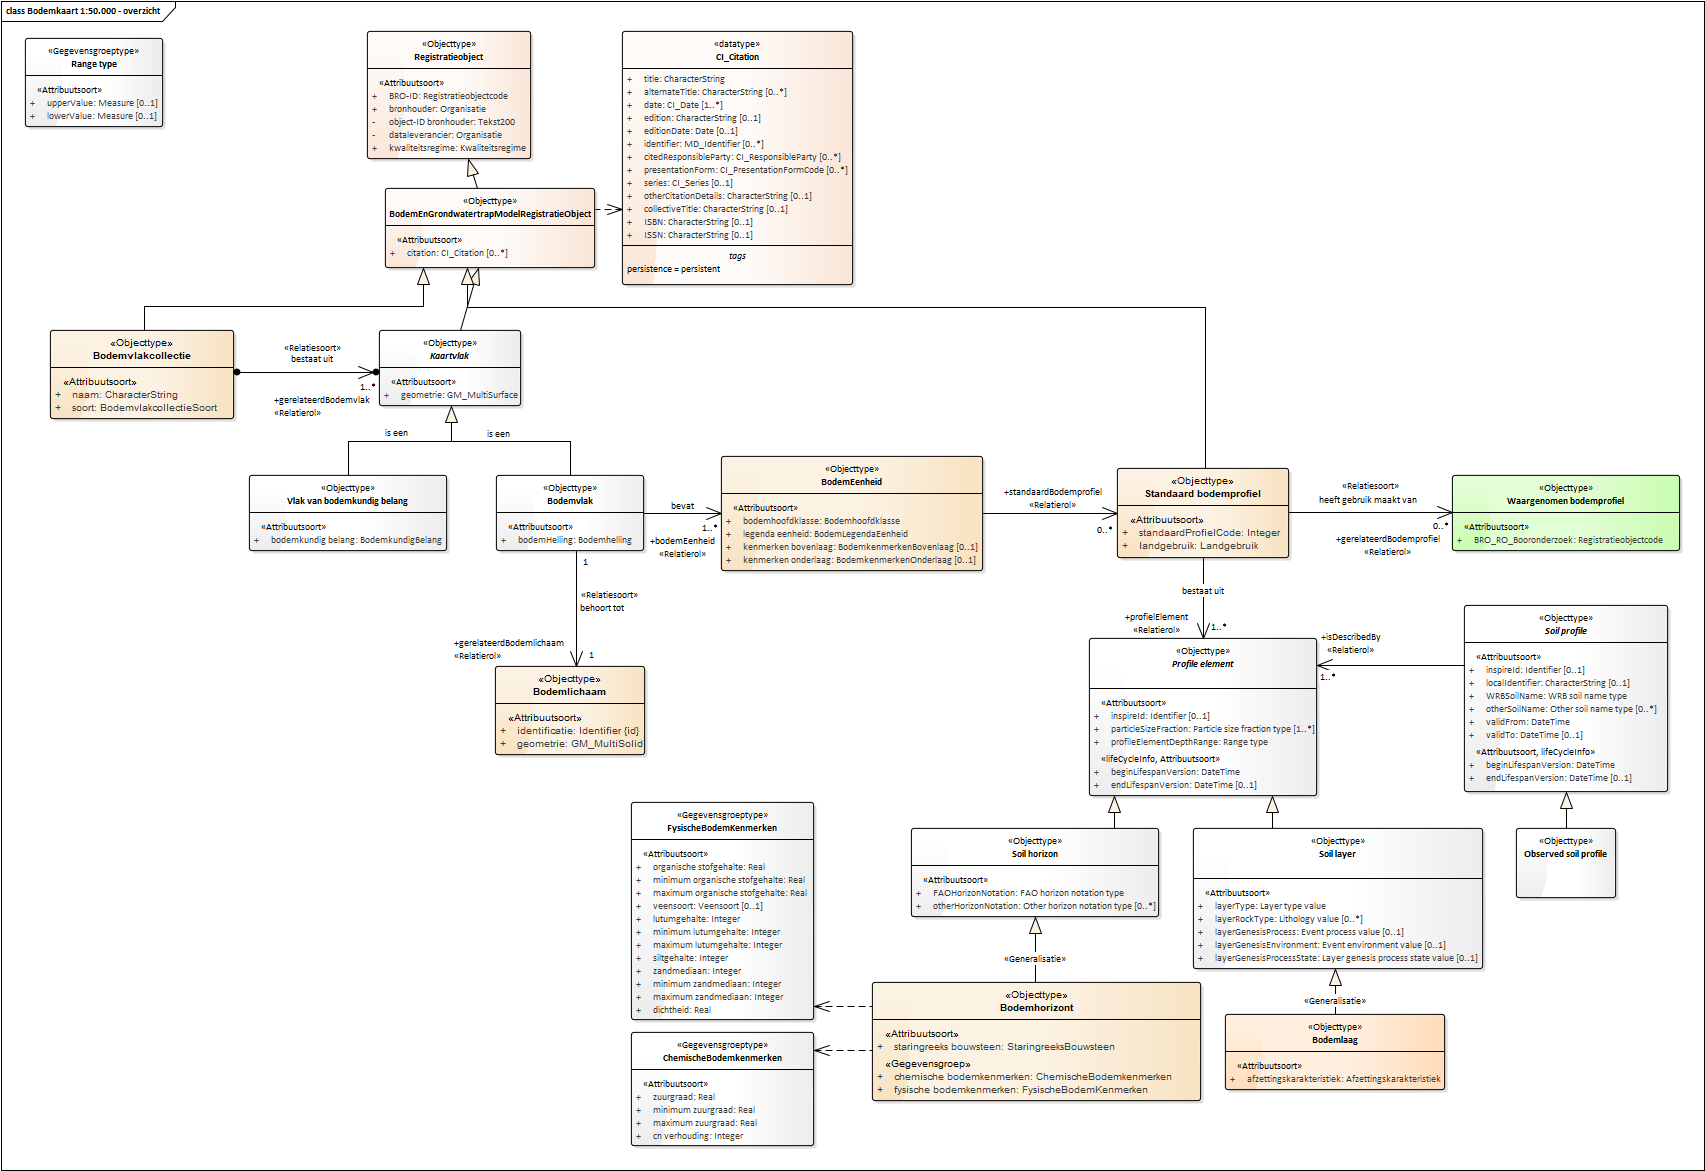
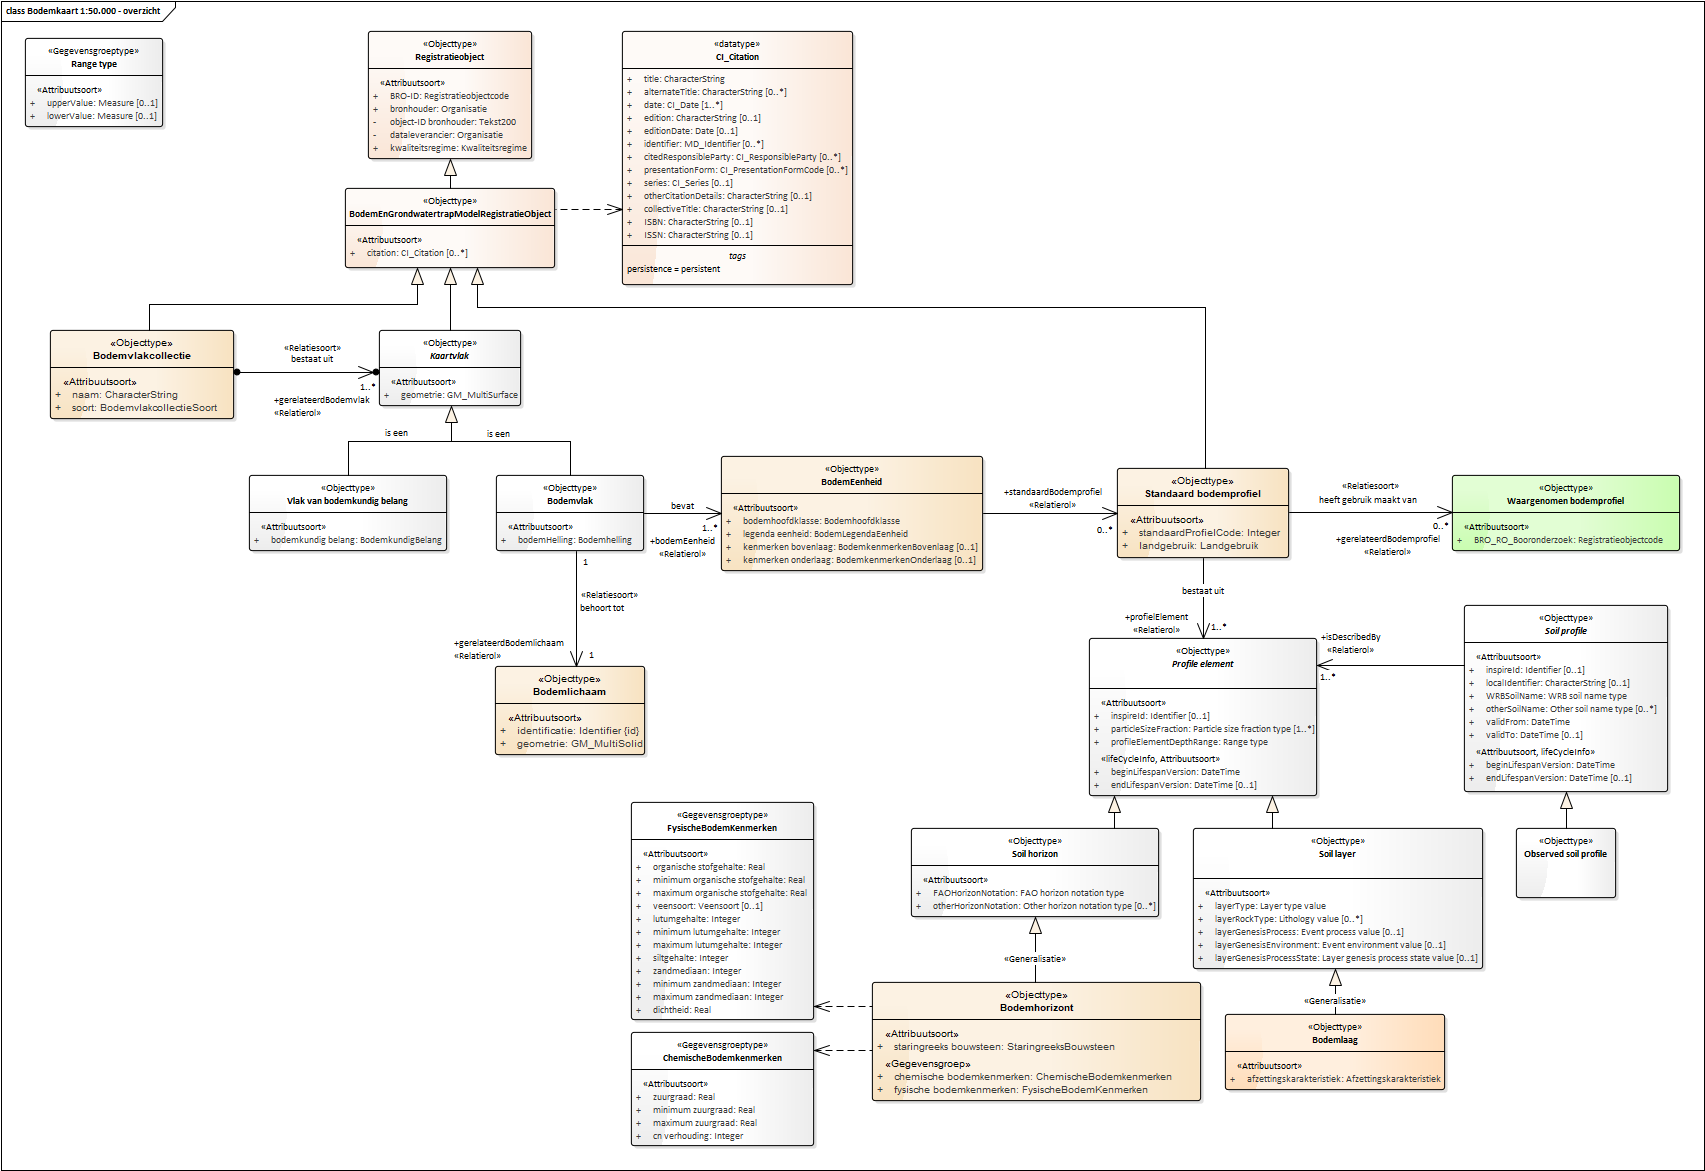
Conceptualmodel-BodemkaartSGM-1.0-1-20181205-20181206-122245

Changed region(s): [[0.1865, 0.0307, 0.373, 0.2459]]

diff --git a/data/SGM-cat.html b/data/SGM-cat.html
@@ -1,10 +1,10 @@
 <h2>Catalogus</h2>
 <p class="note" title="Over deze catalogus">
    Deze catalogus is automatisch samengesteld op basis van het UML model 
-   "Bodemkaart (SGM)" door Imvertor 1.48.2 op December 6, 2018 at 09:12:04.
+   "Bodemkaart (SGM)" door Imvertor 1.48.2 op December 6, 2018 at 11:22:43.
    <br>
    Wanneer je technische fouten of onvolkomenheden aantreft, geef dit dan door aan <i></i> en geef de code 
-   <i>"Conceptualmodel-BodemkaartSGM-1.0-1-20181205-20181206-101206"</i> door. 
+   <i>"Conceptualmodel-BodemkaartSGM-1.0-1-20181205-20181206-122245"</i> door. 
    
 </p><a class="anchor" name="global_package_Brocommon"></a><section id="global_package_Brocommon">
    <h3>Domein brocommon</h3>
@@ -1479,8 +1479,8 @@
 </section><a class="anchor" name="global_package_Model"></a><section id="global_package_Model">
    <h3>Domein Model</h3>
    <div class="imageinfo overview"><img src="data/Images/EAID_6F1DEB4D_0857_407f_96D1_68CEB4BA18C6.png" usemap="#imagemap-EAID_6F1DEB4D_0857_407f_96D1_68CEB4BA18C6"><map name="imagemap-EAID_6F1DEB4D_0857_407f_96D1_68CEB4BA18C6">
-         <area shape="rect" coords="385,268,595,188" alt="" href="#graph_EAID_5403E30C_F3F4_4c09_907F_D48BE501C19C">
-         <area shape="rect" coords="367,159,531,31" alt="" href="#graph_EAID_F38E5EF3_4CDB_4f03_8F86_11BA665753AC">
+         <area shape="rect" coords="345,268,555,188" alt="" href="#graph_EAID_5403E30C_F3F4_4c09_907F_D48BE501C19C">
+         <area shape="rect" coords="368,159,532,31" alt="" href="#graph_EAID_F38E5EF3_4CDB_4f03_8F86_11BA665753AC">
          <area shape="rect" coords="379,406,521,330" alt="" href="#graph_EAID_99801C7D_8272_47b8_8892_0FFAA25819DC">
          <area shape="rect" coords="249,551,447,475" alt="" href="#graph_EAID_FFE7D8E2_A953_49c6_AB62_7366945DDAB6">
          <area shape="rect" coords="496,551,644,475" alt="" href="#graph_EAID_1A0B021D_CECB_4888_896B_045EDB9287FB">
